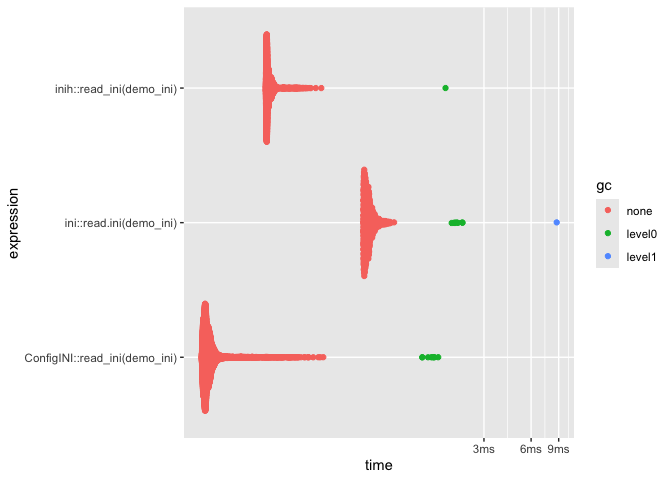
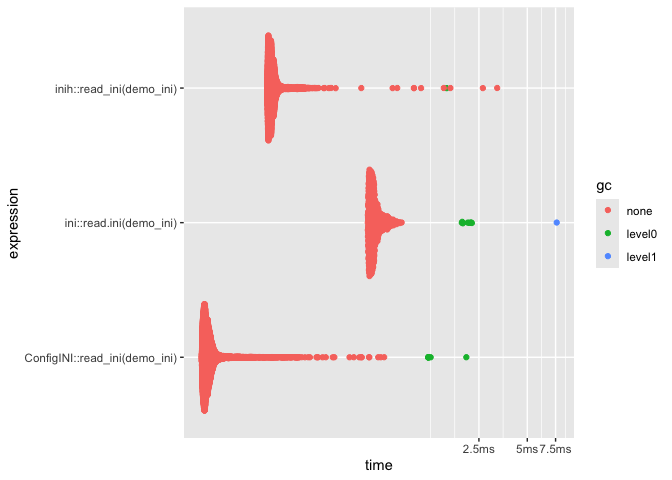
add tests

diff --git a/src/ini_utils.cpp b/src/ini_utils.cpp
@@ -38,8 +38,7 @@ std::vector<std::string> scan_ini_file(const std::string &filename)
   FILE *file = fopen(filename.c_str(), "r");
   if (!file)
   {
-    perror("Unable to open file");
-    return {}; // Return an empty vector on failure
+    Rcpp::stop("Can't load the INI file: " + filename);
   }
 
   std::vector<std::string> lines;

diff --git a/README.md b/README.md
@@ -169,8 +169,7 @@ unlink(temp_file)
 
 ## Benchmark:
 
-Finally ConfigINI is faster than the other INI parsers available in R
-(to my knowledge) :)
+Finally ConfigINI is pretty fast. Here is a quick comparison
 
 ``` r
 # get inih from r-universe for benchmark
@@ -188,9 +187,9 @@ demo_ini <- system.file("demo.ini", package = "ConfigINI")
 #> # A tibble: 3 × 6
 #>   expression                      min median `itr/sec` mem_alloc `gc/sec`
 #>   <bch:expr>                    <dbl>  <dbl>     <dbl>     <dbl>    <dbl>
-#> 1 ConfigINI::read_ini(demo_ini)  1      1        10.2        NaN     8.16
-#> 2 inih::read_ini(demo_ini)       2.57   2.46      4.29       Inf     1   
-#> 3 ini::read.ini(demo_ini)       10.8   10.6       1          Inf     8.35
+#> 1 ConfigINI::read_ini(demo_ini)  1      1        10.5        NaN     8.15
+#> 2 inih::read_ini(demo_ini)       2.57   2.52      4.19       Inf     1   
+#> 3 ini::read.ini(demo_ini)       10.8   10.8       1          Inf     8.34
 
 ggplot2::autoplot(bm)
 #> Loading required namespace: tidyr
